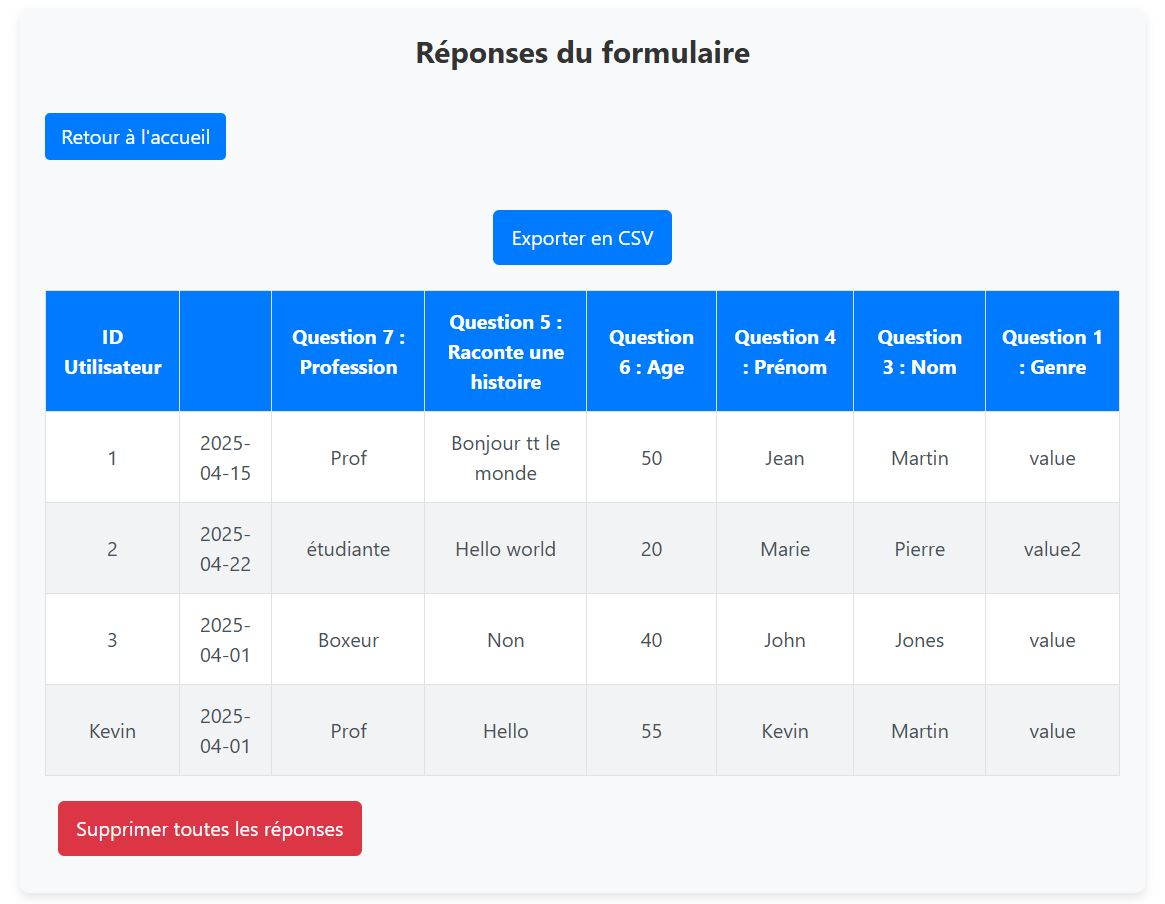
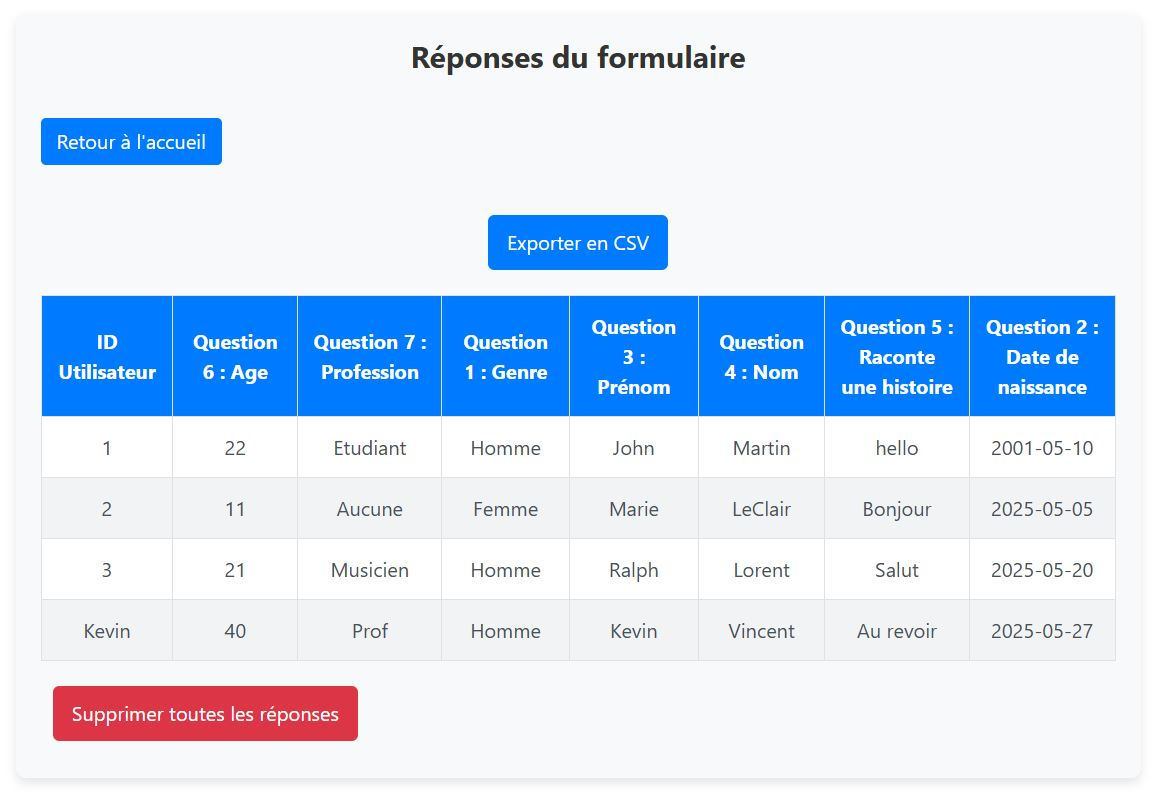
Correction label questions de type date

diff --git a/serveur/services/formService.js b/serveur/services/formService.js
@@ -21,9 +21,14 @@ const saveForm = (id, title, json_data) => {
           }
 
           components.forEach((c) => {
+
+            // Récupération dynamique du label selon le type
+            const label = c.label || c.dateLabel || "";  
+
             db.run(
+
               "INSERT INTO components (id, form_id, label, type, key_name, layout) VALUES (?, ?, ?, ?, ?, ?)",
-              [c.id, id, c.label || "", c.type, c.key || "", JSON.stringify(c.layout)],
+              [c.id, id, label, c.type, c.key || "", JSON.stringify(c.layout)],
               (err) => {
                 if (err) {
                   db.run("ROLLBACK");
